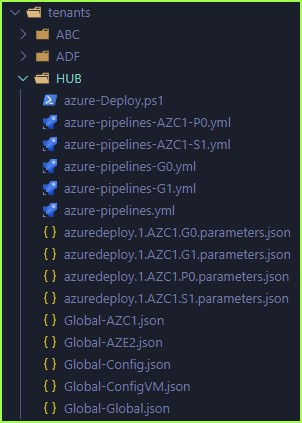
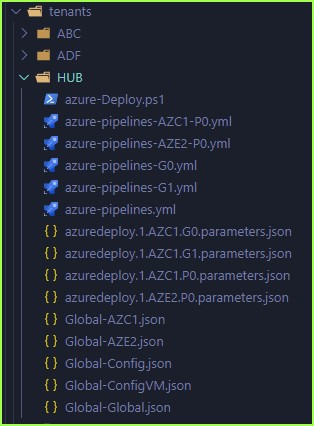
Update service connection names to shortname in pipelines

diff --git a/README.md b/README.md
@@ -59,7 +59,7 @@ Once you have completed those, how do you actually go about taking 1 or more of 
     - OR consider Lift and Shift (with modernization) as phase 1, for the first 12 months, then re-architect and migrate to PaaS in phase 2, the following 3 to 6 months.
         - Example of modernization could mean moving to the latest OS versions, or dependency software version, while still running IaaS Etc.
 - If you are Core IT, then this Framework is not for you.
-- If you don't have control over your own subscription, with an Owner account, then this Framework is not for you.
+- If you don't have control over your own subscription/s, with an Owner account, then this Framework is not for you.
 - If you don't have 3 to 12 months to dedicate to deploying out a single Application that is core to your business, then this Framework s not for you.
 - However if you need to build out Labs or use this for Demo's Etc, then it will work very nicely.
 
